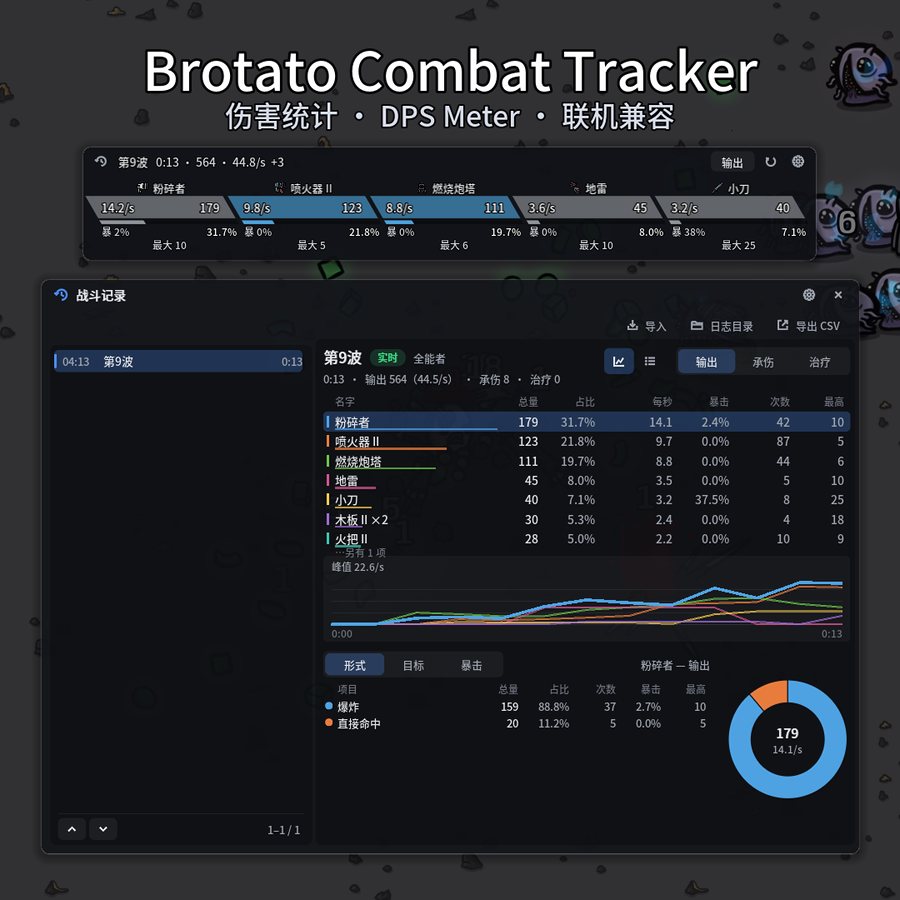
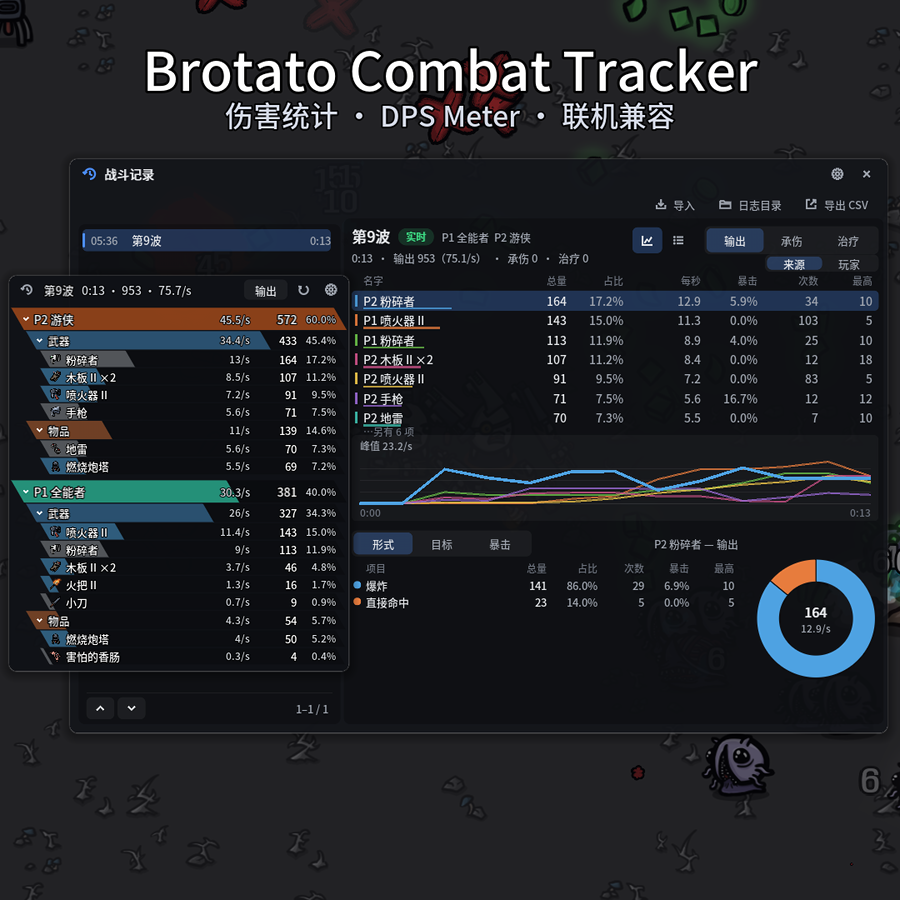
README、开发文档、创意工坊文案和预览图更新到树形浮窗

diff --git a/README.en.md b/README.en.md
@@ -2,8 +2,8 @@
 
 [简体中文](README.md) | **English**
 
-A combat statistics panel for **Brotato**. A horizontal overlay that breaks down damage dealt, damage taken
-and healing per weapon and item; click any card for a donut-chart breakdown by hit form, target and crits;
+A combat statistics panel for **Brotato**. A vertical tree overlay that breaks down damage dealt, damage taken
+and healing per player, then per weapon and item; click any source for a donut-chart breakdown by hit form, target and crits;
 statistics segment automatically per wave; CSV export. An ACT-style combat log window lets you review every
 wave and list its individual events, and each session's combat events are saved to a log that can be imported
 and re-parsed. Everything can be set up in-game. The UI text follows the game's language.
@@ -52,17 +52,22 @@ Brotato\
 | `F10` | Reset the current statistics (splits the wave into a new encounter; the old one moves to the combat log) |
 | `F11` | Export the current encounter as a CSV |
 
-- Normally only the text (with a black outline) and the cards float over the game; move the cursor onto the overlay
+- The overlay is a vertical, multi-level list. Each row is a slanted bar sized by its value, with the name, per-second,
+  total and share:
+  - Co-op: **player → group → each source**; solo play skips the player level
+  - Groups: damage is split into **Weapons / Items / Other** (burning, explosions and the like that can't be tied to a
+    single source), damage taken into **Enemies / Elite / Boss / Other**, healing into **Stats / Items / Consumables / Other**
+  - Click a player or group row to fold or unfold it; each group lists up to 6 items (adjustable in the settings), the
+    rest become "n more"
+- Normally only the text (with a black outline) and the bars float over the game; move the cursor onto the overlay
   and its translucent background and title-bar buttons fade in
 - Overlay title bar: the log icon on the far left opens the combat log; on the right are the view switch
-  (**Damage / Taken / Healing**, plus **Sources / Players** with several players), reset and settings
-- **Click a card** for its breakdown window, a donut chart with a legend that scrolls past 7 items:
-  - Damage · source: forms (direct hit / burning / explosion / effect), targets (which enemies it hit), crits
-  - Damage · player: sources (weapons / items), classes (melee / ranged / elemental / engineering…), targets
-  - Taken: sources (which enemies hit you), outcomes (hit / dodged / blocked)
-  - Healing: sources (HP regeneration / life steal / items / consumables…)
+  (**Damage / Taken / Healing**), reset and settings
+- **Click a source row** for its breakdown window, a donut chart with a legend that scrolls past 7 items:
+  - Damage: forms (direct hit / burning / explosion / effect), targets (which enemies it hit), crits
+  - Taken: outcomes (hit / dodged / blocked)
 - Statistics segment per wave with the game's own wave titles, e.g. `Wave 5 · Elite`; replaying a failed wave adds a repeat number, e.g. `Wave 5 #2`
-- Identical weapons of the same tier share one card with a count, e.g. `SMG III ×2`
+- Identical weapons of the same tier share one row with a count, e.g. `SMG III ×2`
 - Every window can be dragged and remembers its position; hover over an icon button for a moment to see what it does
 
 The overlay only shows while a wave is running: it steps aside for the pause menu, the level-up choices after a wave
@@ -103,8 +108,8 @@ Open it with the log icon at the far left of the overlay's title bar (or `F8`). 
 
 ### Settings
 
-The gear in the overlay's or the combat log's title bar opens them: UI scale, card slant, window background opacity,
-overlay card count, icons, overlay in the shop, overkill and trees, how many encounters the combat log keeps,
+The gear in the overlay's or the combat log's title bar opens them: UI scale, bar slant, window background opacity,
+items per overlay group, icons, overlay in the shop, overkill and trees, how many encounters the combat log keeps,
 sharing stats online, combat logs, hotkeys and player colours can all be changed there and are saved to the config
 file right away. The two items marked "Needs restart" (combat logs) take effect the next time the game starts.
 
@@ -122,7 +127,7 @@ them in that folder. The format is documented in [combat log format](docs/eventl
 
 ## Co-op
 
-- **Local co-op**: every player on the machine is tracked. Card names carry `P1` / `P2`, and the small square in the corner is the player's colour
+- **Local co-op**: every player on the machine is tracked. The overlay groups everything by player, each player's row in their colour; the combat log can show sources or players
 - **BrotatoOnline (Workshop co-op mod)**: in an online session each machine only simulates its own player's hits,
   so no single machine sees the whole team's damage. Each player therefore tracks their own player and, every
   2 seconds, sends this wave's statistics to the teammates through BrotatoOnline's public mod-message API, plus a
@@ -145,10 +150,10 @@ directly, restart the game.
 | `ShowOverlay` | true | Show the overlay at startup |
 | `ShowInShop` | false | Also show the overlay in the shop (it shows the wave just finished) |
 | `UiScale` | 1.0 | UI scale |
-| `SkewDegrees` | -30 | Skew angle of the cards; `0` for plain rectangles |
+| `SkewDegrees` | -30 | Skew angle of the overlay's bars; `0` for plain rectangles |
 | `BackgroundOpacity` | 0.9 | Background opacity of the overlay, breakdown and combat log windows (0–1); the overlay shows its background only while the cursor is on it |
-| `MaxCards` | 5 | Max cards on the overlay; the rest are counted as `+n` in the title bar |
-| `ShowIcons` | true | Show weapon / item icons on the cards |
+| `MaxRows` | 6 | Most items listed under each overlay group (weapons / items / other…); the rest become "n more" |
+| `ShowIcons` | true | Show weapon / item icons on the overlay |
 | `CountOverkill` | false | Count overkill damage |
 | `IncludeTrees` | false | Count damage dealt to trees |
 | `HistorySize` | 200 | How many encounters of this session the combat log window keeps (older ones stay in the log file); `0` for no limit |

diff --git a/README.md b/README.md
@@ -2,8 +2,8 @@
 
 **简体中文** | [English](README.en.md)
 
-给 **Brotato（土豆兄弟）** 用的战斗统计面板。横向悬浮窗，按武器 / 物品拆分输出、承伤、治疗，
-点开任一卡片可看命中形式、目标、暴击的环形图明细，按波次自动分段，可导出 CSV。
+给 **Brotato（土豆兄弟）** 用的战斗统计面板。竖向的多级浮窗，多人时按玩家、再按武器 / 物品拆分输出、承伤、治疗，
+点开任一来源可看命中形式、目标、暴击的环形图明细，按波次自动分段，可导出 CSV。
 另有一个仿 ACT 的战斗记录窗口：每一波都能回看、能看逐条事件，每局的战斗事件自动存成日志，可以导入重新解析。
 设置都能在游戏里改。界面文本跟随游戏语言。
 
@@ -50,15 +50,18 @@ Brotato\
 | `F10` | 重置当前统计（同一波切出新的一段，旧的一段收进战斗记录） |
 | `F11` | 把当前这一段导出成 CSV |
 
-- 浮窗平时只有文字和卡片浮在游戏上（字带黑色描边）；鼠标移上去，半透明的背景和标题栏按钮才出现
-- 浮窗标题栏：最左的记录图标打开战斗记录；右边依次是视图切换（**输出 / 承伤 / 治疗**，多人时还有 **来源 / 玩家**）、重置、设置
-- **点击卡片**弹出拆分窗口，环形图 + 图例，图例超过 7 项时用滚轮翻：
-  - 输出 · 来源：形式（直接命中 / 燃烧 / 爆炸 / 效果）、目标（打了哪些敌人）、暴击
-  - 输出 · 玩家：来源（武器 / 物品）、类别（近战 / 远程 / 元素 / 工程…）、目标
-  - 承伤：来源（被哪些敌人打）、结果（命中 / 闪避 / 抵挡）
-  - 治疗：来源（生命再生 / 生命窃取 / 物品 / 消耗品…）
+- 浮窗是竖向的多级列表，每一行是一条随数值伸缩的斜切色条，写着名字、每秒、总量、占比：
+  - 多人：**玩家 → 分类 → 各个来源**；单人省掉玩家这一级
+  - 分类：输出分 **武器 / 物品 / 其他**（燃烧、爆炸这类归不到具体来源的），承伤分 **敌人 / 精英 / Boss / 其他**，
+    治疗分 **属性回复 / 物品 / 消耗品 / 其他**
+  - 点玩家或分类那一行折叠 / 展开；每一组最多列 6 项（可在设置里改），其余并成「另有 n 项」
+- 浮窗平时只有文字和色条浮在游戏上（字带黑色描边）；鼠标移上去，半透明的背景和标题栏按钮才出现
+- 浮窗标题栏：最左的记录图标打开战斗记录；右边依次是视图切换（**输出 / 承伤 / 治疗**）、重置、设置
+- **点来源那一行**弹出拆分窗口，环形图 + 图例，图例超过 7 项时用滚轮翻：
+  - 输出：形式（直接命中 / 燃烧 / 爆炸 / 效果）、目标（打了哪些敌人）、暴击
+  - 承伤：结果（命中 / 闪避 / 抵挡）
 - 按波次自动分段，标题跟游戏一致，如「第 5 波 · 精英」；同一波失败后重打带序号「第 5 波 #2」
-- 同名同品质的武器合成一张卡片，名字后面带把数，如「冲锋枪 III ×2」
+- 同名同品质的武器合成一行，名字后面带把数，如「冲锋枪 III ×2」
 - 窗口按住就能拖，位置会记住；图标按钮悬停一会儿有文字提示
 
 浮窗只在波次进行中显示：暂停菜单、收波后的升级选择、商店里都会自动让开，免得挡住游戏自己的按钮。
@@ -96,7 +99,7 @@ Brotato\
 
 ### 设置
 
-浮窗或战斗记录标题栏上的齿轮打开：界面缩放、卡片斜切、窗口背景的浓淡、浮窗卡片数、图标、商店里显示浮窗、
+浮窗或战斗记录标题栏上的齿轮打开：界面缩放、色条斜切、窗口背景的浓淡、浮窗每组最多几项、图标、商店里显示浮窗、
 是否计入溢出伤害和树木、战斗记录保留多少段、联机互传、战斗日志、热键、玩家颜色都能直接改，改完自动存进配置文件。
 标着「重启后生效」的两项（战斗日志）下次启动游戏才生效。
 
@@ -112,7 +115,7 @@ Brotato\
 
 ## 联机
 
-- **本地合作**：同一台机器上的所有玩家都统计。卡片名字前面带 `P1` / `P2`，左上角的小方块是玩家颜色
+- **本地合作**：同一台机器上的所有玩家都统计。浮窗按玩家分组，玩家那一行是玩家颜色；战斗记录里可按来源或按玩家看
 - **BrotatoOnline（创意工坊联机 Mod）**：联机时每台机器只模拟自己玩家的命中，没有哪一台机器看得到全队的伤害。
   所以每人只统计自己的玩家，每 2 秒通过 BrotatoOnline 公开的 Mod 消息接口把这一波的统计发给队友，
   收波时再发一次最终版。**队友也装了本 Mod 才看得到他的数据**，没装的队友就是空的，不影响其他人。
@@ -132,10 +135,10 @@ Brotato\
 | `ShowOverlay` | true | 启动时显示浮窗 |
 | `ShowInShop` | false | 商店里也显示浮窗（显示刚打完的那一波） |
 | `UiScale` | 1.0 | 界面缩放 |
-| `SkewDegrees` | -30 | 卡片斜切角度，`0` 为普通矩形 |
+| `SkewDegrees` | -30 | 浮窗色条的斜切角度，`0` 为普通矩形 |
 | `BackgroundOpacity` | 0.9 | 浮窗、拆分窗口和战斗记录背景的不透明度（0–1）；浮窗只在鼠标移上去时显示背景 |
-| `MaxCards` | 5 | 浮窗最多几张卡片，其余计入标题栏的「+n」 |
-| `ShowIcons` | true | 卡片上显示武器 / 物品图标 |
+| `MaxRows` | 6 | 浮窗里每一组（武器 / 物品 / 其他…）最多列几项，其余并成「另有 n 项」 |
+| `ShowIcons` | true | 浮窗上显示武器 / 物品图标 |
 | `CountOverkill` | false | 伤害计入溢出 |
 | `IncludeTrees` | false | 统计对树木的伤害 |
 | `HistorySize` | 200 | 战斗记录里本局保留多少段，更早的仍在日志里；`0` 为不限 |

diff --git a/docs/DEVELOPMENT.md b/docs/DEVELOPMENT.md
@@ -141,14 +141,20 @@ Mod Loader 重载全部子类。唯一的扩展是 `player.gd`（治疗归因，
 
 ### 界面
 
-配色、版式、交互照搬 TBH Combat Tracker v0.4 的界面：深色圆角窗口、图标按钮和悬停提示，浮窗平时只有描边的字和卡片，
+配色、版式、交互照搬 TBH Combat Tracker v0.4 的界面：深色圆角窗口、图标按钮和悬停提示，浮窗平时只有描边的字和色条，
 鼠标移上去才淡入背景和按钮；拆分表和环形图互相高亮，环上一屏之外的小项并成「其他」。
+
+浮窗和 TBH 不同：TBH 是横向并排的卡片（一个英雄一张），这里是竖向的多级列表（`ui/overlay.gd`）——
+Brotato 一名玩家就有好几件武器和物品，多人时按玩家分组才看得清。多人是玩家 → 分类 → 来源，单人省掉玩家这一级；
+分类见 `names.category_of`（输出：武器 / 物品 / 其他；承伤：敌人 / 精英 / Boss / 其他；治疗：属性回复 / 物品 / 消耗品 / 其他）。
+每一行一条斜切色条，整棵树用同一把尺子（多人时最大的那名玩家、单人时最大的那一类是满格）；
+折叠状态只在本次游戏里记着，按视图分开。
 
 - 四个窗口（浮窗、拆分、战斗记录、设置）都是整窗自绘的 `Control`（`ui/window_base.gd`），绘制时顺手登记点击区。
   版式常量直接用 TBH 的界面单位（和它的源码一一对应），窗口整体按 `skin.scale` 缩放：
   1.3 × `UiScale`，1.3 是 Brotato 的 1080p 画面相对 TBH（桌面分辨率、10–13 号字）的放大倍数。
   不用 `Button` 等内置控件：它们会抢键盘 / 手柄焦点，和游戏的焦点导航打架；焦点一律 `FOCUS_NONE`
-- 画法：圆角块、窗口底板和阴影用 `StyleBoxFlat`（引擎自带抗锯齿）；斜切色块、环形图、图标的线条在 GDScript 里拼成
+- 画法：圆角块、窗口底板和阴影用 `StyleBoxFlat`（引擎自带抗锯齿）；斜切色条、环形图、图标的线条在 GDScript 里拼成
   三角形网格（`ui/aa_mesh.gd`：每条边外侧铺一圈一像素宽的羽化带，和 TBH 的 MeshBuilder 同一做法）；曲线用引擎的抗锯齿折线。
   图标照着 Segoe Fluent Icons 的字形用线条画（`ui/icons.gd`），各平台一样，网格按大小和颜色缓存
 - 字：游戏自带的思源黑体（Noto Sans SC / TC / JP / KR，按游戏语言挑主字体）按缩放后的字号现建，
@@ -186,7 +192,7 @@ Mod Loader 重载全部子类。唯一的扩展是 `player.gd`（治疗归因，
   等测试驱动跑完自动退出，汇总结果、截图和日志里的脚本错误
 - 测试驱动（`driver.gd`）自动开一局站桩打一波，检查：Mod 加载、开波挂上、有伤害记录、热键、鼠标点击和拖动
   （用 `Input.parse_input_event` 走引擎真实的输入流程）、暂停菜单上方也点得到战斗记录（多人时同样）、
-  暂停时钟不走、手动重置、浮窗背景随鼠标淡入淡出、悬停提示、设置窗口（开关、拖滑杆改配置、录热键）、
+  暂停时钟不走、手动重置、浮窗树形的折叠 / 展开和多人时按玩家分组、浮窗背景随鼠标淡入淡出、悬停提示、设置窗口（开关、拖滑杆改配置、录热键）、
   没选中时拆分看全部、逐条事件（实时那段、从日志读结束的段、按选中的行筛选，条数和命中次数一致）、曲线悬停读数、
   收波、浮窗在暂停和收波后让开、**日志按当前版本重新解析后与实时统计逐段逐来源一致**、CSV 导出、战斗记录后台导入、
   队友快照往返，并给每个窗口截图。每次开跑前删掉测试用户目录里 Mod 的配置，测的是默认值
@@ -200,11 +206,11 @@ python tools/testpack/run_test.py --wave 18 --enemy-mult 3 --loadout "weapon_min
 python tools/testpack/summary.py                                    # 再看一遍上次的结果
 ```
 
-预览图（README 和创意工坊用）也由测试顺便生成，用一套打得热闹的配装：
+预览图（README 和创意工坊用）也由测试顺便生成，双人、用一套打得热闹的配装：
 
 ```bash
-python tools/testpack/run_test.py --lang zh --wave 9 --seconds 45 --preview preview-zh --loadout "weapon_plank_2,weapon_plank_2,weapon_torch_2,weapon_knife_1,weapon_flamethrower_2,weapon_shredder_1,item_riposte,item_turret_flame,item_scared_sausage,item_landmines"
-python tools/testpack/run_test.py --lang en --wave 9 --seconds 45 --preview preview-en --preview-sub "Damage meter · Co-op ready" --loadout "（同上）"
+python tools/testpack/run_test.py --lang zh --players 2 --wave 9 --seconds 45 --preview preview-zh --loadout "weapon_plank_2,weapon_plank_2,weapon_torch_2,weapon_knife_1,weapon_flamethrower_2,weapon_shredder_1,item_riposte,item_turret_flame,item_scared_sausage,item_landmines"
+python tools/testpack/run_test.py --lang en --players 2 --wave 9 --seconds 45 --preview preview-en --preview-sub "Damage meter · Co-op ready" --loadout "（同上）"
 ```
 
 生成在结果目录里，复制到 `docs/images/`；`docs/workshop/preview.png` 用中文那张。
@@ -213,7 +219,7 @@ python tools/testpack/run_test.py --lang en --wave 9 --seconds 45 --preview prev
 测试会弹出一个游戏窗口，跑完自己关，一次一分钟左右。
 
 结果里的 `perf` 是开销：伤害回调每次约 40 µs（压力测试每秒 125 次时合计每秒 5 ms），
-浮窗每次重绘约 0.6 ms（每秒 5 次），战斗记录约 1.4 ms（实时时每秒 2 次，操作时当帧重画），设置窗口约 1.9 ms（只在操作时画）。
+浮窗每次重绘约 0.5–1.2 ms（每秒 5 次，行越多越久），战斗记录约 1.4 ms（实时时每秒 2 次，操作时当帧重画），设置窗口约 1.9 ms（只在操作时画）。
 
 ---
 
